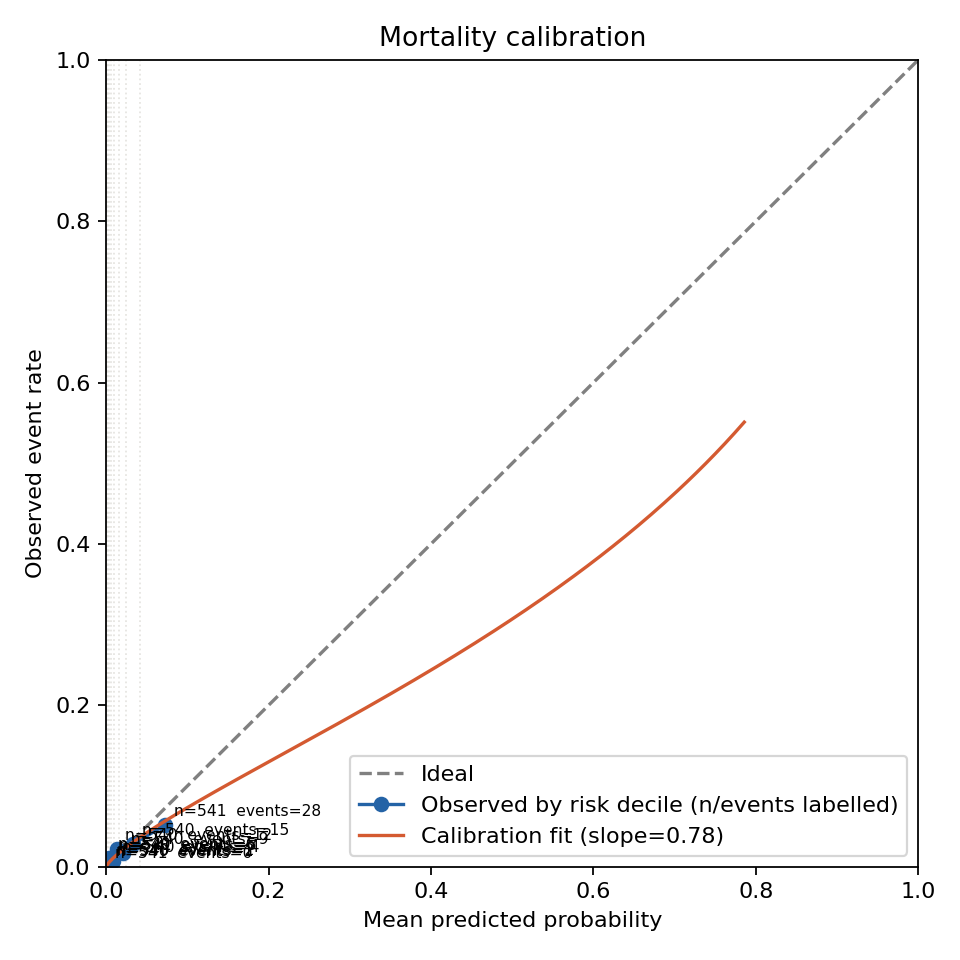
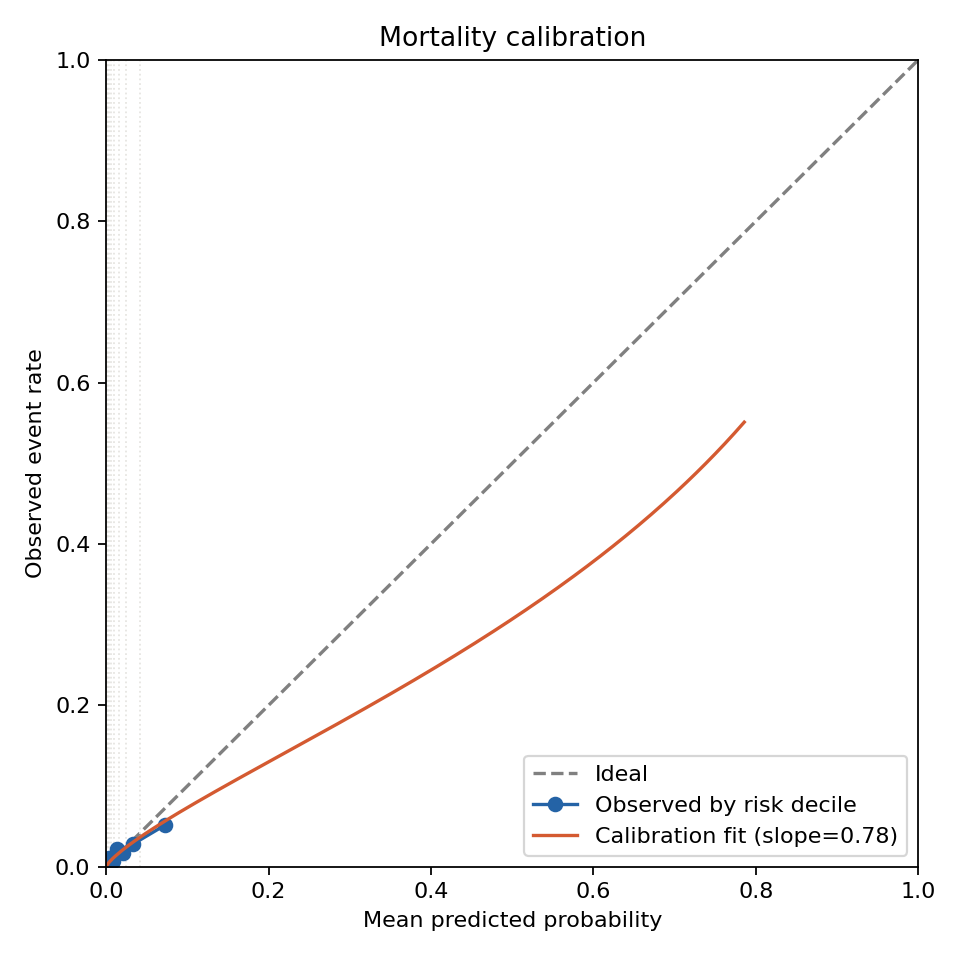
Refine calibration plot details and update documentation for clarity

Changed region(s): [[0.4375, 0.7812, 0.9375, 0.9062], [0.125, 0.8438, 0.3125, 0.9062], [0.375, 0.7812, 0.4062, 0.875]]

diff --git a/src/evaluation/plots.py b/src/evaluation/plots.py
@@ -57,16 +57,8 @@ def plot_calibration(y, probabilities, slope, intercept, out_path, title):
         grouped["observed"],
         "o-",
         color="#2463a6",
-        label="Observed by risk decile (n/events labelled)",
+        label="Observed by risk decile",
     )
-    for _, row in grouped.iterrows():
-        ax.annotate(
-            f"n={int(row['n'])}  events={int(row['events'])}",
-            (row["predicted"], row["observed"]),
-            xytext=(4, 4),
-            textcoords="offset points",
-            fontsize=7,
-        )
     if np.isfinite(slope) and np.isfinite(intercept):
         risk = np.linspace(
             max(probabilities.min(), 1e-8),

diff --git a/Docs/evaluation/FLOW.md b/Docs/evaluation/FLOW.md
@@ -147,9 +147,8 @@ hospital-comparison pipeline, not to the orchestrator scoreboards.
 This is a sanity check for one model: the current `--method` with train-median imputation.
 
 `plot_calibration()` in `src/evaluation/plots.py` splits held-out risks into 10 equal-count
-bins, draws faint vertical lines at bin boundaries, and labels each plotted point with
-`n=<bin size>` and `events=<events in bin>`. This makes it visible when a bin itself has very
-few events, even though the full test set now has `82` events.
+bins and draws faint vertical lines at bin boundaries. Per-bin `n` and `events` counts are
+computed by `calibration_bins()` for tests, but are not printed on the plot.
 
 ### 5.2 Orchestrator scoreboards
 
